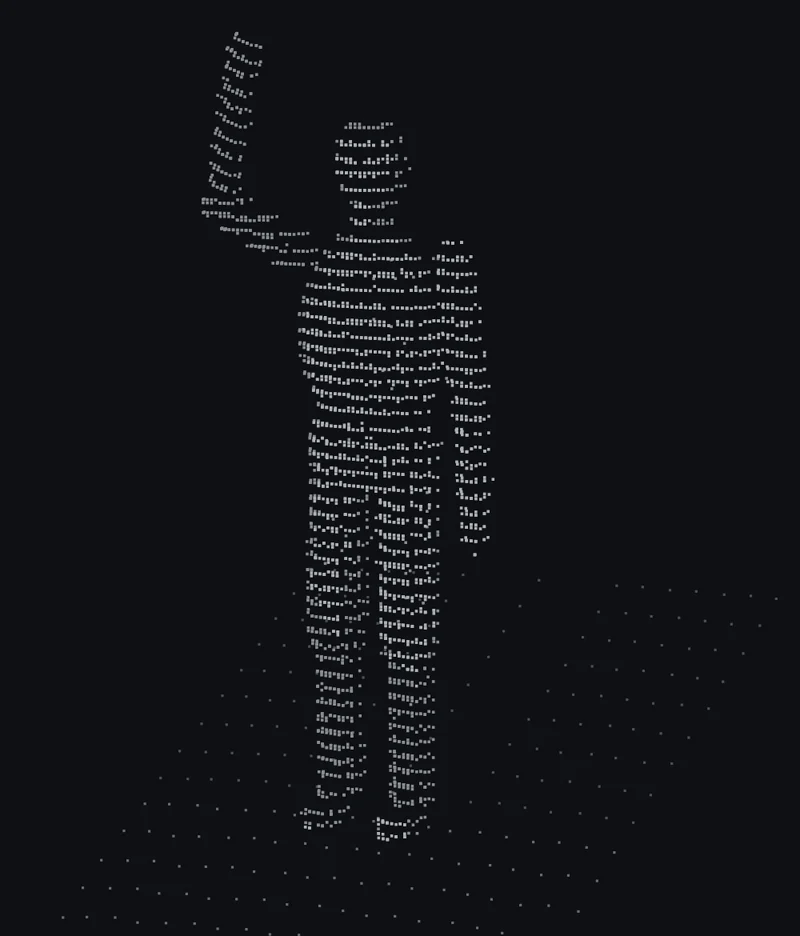
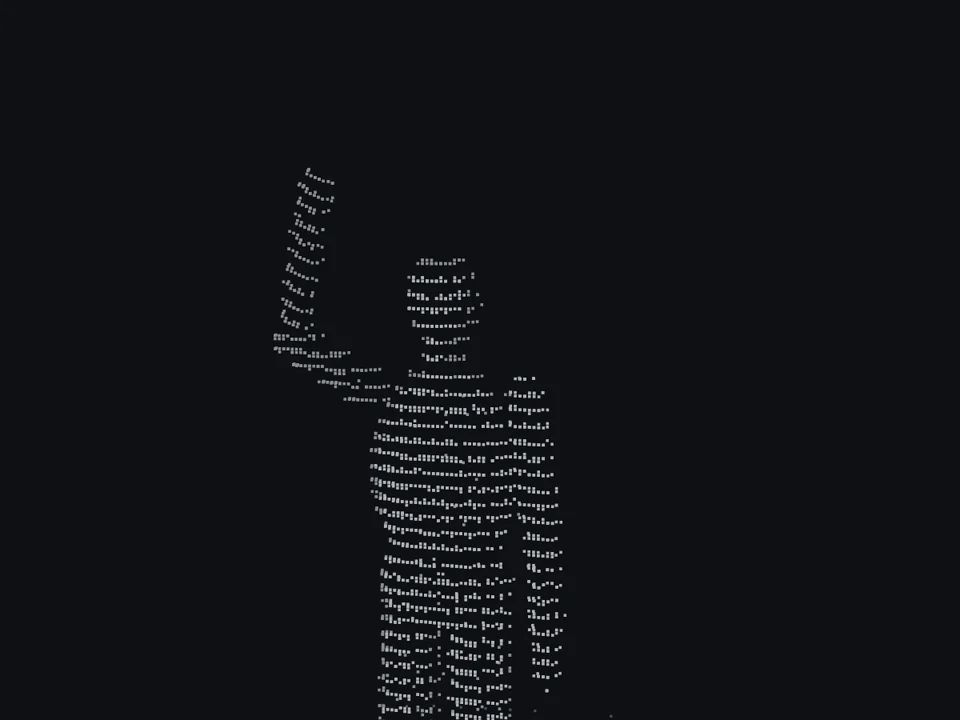
Review round 2: a larger Fig. 1, papers on home, one subhead system
- Fig. 1 is 4:3 with headroom and an edge, top-aligned beside the intro.
- Home: two projects with screenshots, three one-liners and All projects, then Writing and a
  Papers section.
- Section heads in caps and small caps rather than tracked all-caps.
- Light mode a touch less yellow; single screenshots fill their frame.
- Posts: italic h3s and run-in labels, code on the text column, the geoid still sized to it.
- The Boston 311 post gets a marked editor's note where the dashboard was: the hosted Space
  renders blank and no screenshot of it exists.

Changed region(s): [[0.25, 0.0306, 0.625, 1.0]]

diff --git a/src/app.css b/src/app.css
@@ -24,14 +24,14 @@
    are at least 4.5:1 on --bg; code colours on --code. */
 @media (prefers-color-scheme: light) {
 	:root:not([data-theme='dark']) {
-		--bg: #f4f0e6; --ink: #24211c; --muted: #5e584d; --link: #1d4c95; --line: #dcd4c3; --frame: #e8e1d2;
-		--code: #ebe5d7; --lat: #d3cdbf; --latmaj: #b3ab9b; --path: #1d4c95; --home: #24211c;
+		--bg: #f6f3ec; --ink: #24211c; --muted: #5e584d; --link: #1d4c95; --line: #dedad1; --frame: #ebe6db;
+		--code: #ede9df; --lat: #d3cdbf; --latmaj: #b3ab9b; --path: #1d4c95; --home: #24211c;
 		color-scheme: light;
 	}
 }
 :root[data-theme='light'] {
-	--bg: #f4f0e6; --ink: #24211c; --muted: #5e584d; --link: #1d4c95; --line: #dcd4c3; --frame: #e8e1d2;
-	--code: #ebe5d7; --lat: #d3cdbf; --latmaj: #b3ab9b; --path: #1d4c95; --home: #24211c;
+	--bg: #f6f3ec; --ink: #24211c; --muted: #5e584d; --link: #1d4c95; --line: #dedad1; --frame: #ebe6db;
+	--code: #ede9df; --lat: #d3cdbf; --latmaj: #b3ab9b; --path: #1d4c95; --home: #24211c;
 	color-scheme: light;
 }
 
@@ -73,18 +73,23 @@ footer.site a { color: var(--muted); padding-block: 10px; }
 .intro p { max-width: var(--measure); margin: 22px 0 0; text-wrap: pretty; }
 .intro p + p { margin-top: 14px; }
 /* Home: the intro sits beside one figure, set like a paper's Fig. 1. */
-.intro.with-figure { display: grid; grid-template-columns: minmax(0, 1fr) minmax(0, 300px); gap: 24px 56px; align-items: center; padding-block: 56px 64px; }
+.intro.with-figure { display: grid; grid-template-columns: 7fr 5fr; gap: 24px 56px; align-items: start; padding-block: 64px 72px; }
+.intro.with-figure h1 { margin-top: 0.4em; }
 .hello { margin: 0; }
-.hello img { display: block; width: 100%; height: auto; background: var(--matte); }
+.hello { max-width: 440px; justify-self: end; width: 100%; }
+.hello img { display: block; width: 100%; height: auto; aspect-ratio: 4 / 3; background: var(--matte); box-shadow: 0 0 0 1px var(--line); filter: brightness(1.35); }
 .hello figcaption { font-size: 0.85rem; color: var(--muted); margin-top: 8px; text-wrap: pretty; }
-.projects + ul.more { margin-top: -40px; }
-h2.sec { font-size: 1.15rem; font-weight: 400; font-variant-caps: all-small-caps; letter-spacing: 0.06em; margin: 0 0 22px; }
+.projects + ul.more { margin-top: -40px; margin-bottom: 0; }
+p.all { margin: 14px 0 104px; font-size: 0.95rem; }
+/* Caps and small caps, as a paper sets a section head: a full capital, then small caps. */
+h2.sec { font-size: 1.3rem; font-weight: 400; font-variant-caps: small-caps; letter-spacing: 0.02em; margin: 0 0 22px; }
 h2.sec a { color: inherit; text-decoration: none; }
 
 /* Projects: screenshot on a matte, label underneath */
 .projects { display: grid; grid-template-columns: repeat(2, minmax(0, 1fr)); gap: 56px 40px; margin-bottom: 96px; }
 .frame { background: var(--frame); box-shadow: 0 0 0 1px var(--line); aspect-ratio: 16 / 10; overflow: hidden; display: flex; justify-content: center; align-items: center; padding: 5%; }
-.frame.single img { width: 100%; height: 100%; object-fit: contain; display: block; }
+.frame.single { padding: 0; }
+.frame.single img { width: 100%; height: 100%; object-fit: cover; display: block; }
 .frame.phones { padding: 6% 6% 4%; gap: 5%; align-items: stretch; }
 .pane { position: relative; height: 100%; min-width: 0; }
 .pane img { height: 100%; width: auto; max-width: 100%; object-fit: contain; display: block; }
@@ -125,12 +130,14 @@ article.post .byline { color: var(--muted); margin: 0; }
 }
 .post-body > * { grid-column: 2; min-width: 0; }
 .post-body > .iframe-container, .post-body > .embed-still { grid-column: 1 / -1; }
-.post-body > pre, .post-body > table { grid-column: 1 / -1; width: min(46rem, 100%); justify-self: center; }
+.post-body > pre { grid-column: 2; margin-inline: -18px; }
+.post-body > table { grid-column: 2; }
 .post-body > :first-child { margin-top: 0; }
 .post-body h2 { font-size: 1.35em; font-weight: 400; line-height: 1.25; margin: 2em 0 0.5em; text-wrap: balance; }
-.post-body h3 { font-size: 1.05em; font-weight: 700; margin: 1.8em 0 0.4em; }
+.post-body h3 { font-size: 1.1em; font-weight: 400; font-style: italic; margin: 1.6em 0 0.35em; }
+.post-body h2 + h3 { margin-top: 0.5em; }
 /* A bold label opening a list item reads as a run-in head, as a paper sets it. */
-.post-body li > strong:first-child { font-weight: 400; font-style: italic; }
+.post-body li > strong:first-child, .post-body p > strong:first-child { font-weight: 400; font-style: italic; }
 .post-body p, .post-body li { text-wrap: pretty; }
 .post-body p {
 	margin: 0 0 14px; text-align: justify; hyphens: auto; -webkit-hyphens: auto;
@@ -144,9 +151,12 @@ article.post .byline { color: var(--muted); margin: 0; }
 .post-body .iframe-container iframe { position: absolute; inset: 0; width: 100%; height: 100%; border: 0; }
 /* A still that links to an embedded app, shown instead of the embed where the app doesn't fit. */
 .post-body > .iframe-container.has-still { display: none; }
-.post-body > .embed-still { display: block; margin: 30px 0 12px; }
+.post-body > .embed-still { display: block; position: relative; grid-column: 2; margin: 30px 0 12px; }
 .post-body > .embed-still img { margin: 0; width: 100%; }
-.post-body > .embed-still span { display: block; margin-top: 8px; font-size: 0.95rem; }
+.post-body > .embed-still span { position: absolute; left: 14px; bottom: 12px; font-size: 0.85rem; color: #d5d9de; text-decoration: underline; text-underline-offset: 0.18em; }
+.post-body > .embed-still img { box-shadow: 0 0 0 1px var(--line); }
+/* An editor's note set apart from the author's text, where an embed used to be. */
+.post-body > .note { font-size: 0.9em; color: var(--muted); font-style: italic; border-left: 1px solid var(--line); padding-left: 14px; }
 .post-body table { border-collapse: collapse; font-size: 0.9rem; margin: 0 0 14px; display: block; overflow-x: auto; }
 .post-body th, .post-body td { text-align: left; padding: 6px 12px 6px 0; border-bottom: 1px solid var(--line); }
 .post-body hr { border: 0; border-top: 1px solid var(--line); margin: 30px 0; }
@@ -216,7 +226,7 @@ pre code { font-size: inherit; }
 	.mode { order: 2; }
 	.intro { padding-block: 44px; }
 	.intro.with-figure { grid-template-columns: minmax(0, 1fr); padding-block: 40px 48px; }
-	.hello { max-width: 280px; }
+	.hello { max-width: 360px; justify-self: start; }
 	.projects { grid-template-columns: minmax(0, 1fr); gap: 44px; }
 	ul.dated li, ul.dated.papers li { grid-template-columns: minmax(0, 1fr); gap: 0; }
 	article.post header { padding-block: 40px 22px; }

diff --git a/src/routes/+page.svelte b/src/routes/+page.svelte
@@ -3,14 +3,15 @@
 	import ProjectFigure from '$lib/components/ProjectFigure.svelte';
 	import { isOtherSite, site } from '$lib/config/site';
 	import { projects } from '$lib/config/projects';
+	import { papers } from '$lib/config/papers';
 	import { shortDate } from '$lib/utils/dates';
 
 	let { data } = $props();
 
-	// Home shows the first two projects with their screenshots and the rest as one line each;
+	// Home shows the first two projects with screenshots and the next three as one line each;
 	// /projects is the full set.
 	const shown = projects.filter((p) => p.featured).slice(0, 2);
-	const listed = projects.filter((p) => !shown.includes(p));
+	const listed = projects.filter((p) => !shown.includes(p)).slice(0, 3);
 </script>
 
 <Seo />
@@ -46,6 +47,7 @@
 			</li>
 		{/each}
 	</ul>
+	<p class="all"><a href="/projects">All projects</a></p>
 </section>
 
 <section aria-labelledby="writing">
@@ -55,6 +57,18 @@
 			<li>
 				<time datetime={post.date}>{shortDate(post.date)}</time>
 				<a href="/{post.slug}">{post.title}</a>
+			</li>
+		{/each}
+	</ul>
+</section>
+
+<section aria-labelledby="papers">
+	<h2 class="sec" id="papers"><a href="/about#papers">Papers</a></h2>
+	<ul class="dated papers">
+		{#each papers as paper (paper.href)}
+			<li>
+				<span class="yr">{paper.year}</span>
+				<span><a href={paper.href}>{paper.title}</a><span class="by">{paper.venue}</span></span>
 			</li>
 		{/each}
 	</ul>

diff --git a/src/lib/utils/code-theme.ts b/src/lib/utils/code-theme.ts
@@ -1,11 +1,11 @@
 import type { ThemeRegistration } from 'shiki/core';
 
 // The light theme for code blocks: softer tones than an editor theme, more token kinds than the
-// CSS-variables theme, every colour at least 4.5:1 on the light code background (#ebe5d7).
+// CSS-variables theme, every colour at least 4.5:1 on the light code background (#ede9df).
 export const siteLight: ThemeRegistration = {
 	name: 'site-light',
 	type: 'light',
-	colors: { 'editor.background': '#ebe5d7', 'editor.foreground': '#2e2a24' },
+	colors: { 'editor.background': '#ede9df', 'editor.foreground': '#2e2a24' },
 	tokenColors: [
 		{ scope: ['comment', 'punctuation.definition.comment'], settings: { foreground: '#655f55', fontStyle: 'italic' } },
 		{ scope: ['keyword', 'storage.type', 'storage.modifier', 'keyword.control', 'keyword.other'], settings: { foreground: '#743a96' } },

diff --git a/content/posts/2025-09-10-Boston311-Dashboard.md b/content/posts/2025-09-10-Boston311-Dashboard.md
@@ -15,6 +15,8 @@ The result is a basic geospatial dashboard using DuckDB for data queries, Panel 
 
 **Try the interactive dashboard below** - you can filter by time period and neighborhood to explore Boston's 311 service requests:
 
+<p class="note">Editor’s note, October 2026: the hosted dashboard isn’t loading at the moment. The code is on <a href="https://github.com/FMazzoni/boston311_paneldashboard">GitHub</a>.</p>
+
 *Want to check out the dashboard on Hugging Face Spaces? [Try it here](https://huggingface.co/spaces/fmazzoni/boston311) or look at the [code](https://github.com/FMazzoni/boston311_paneldashboard) to see how it's built.*
 
 ## Technical Choices
